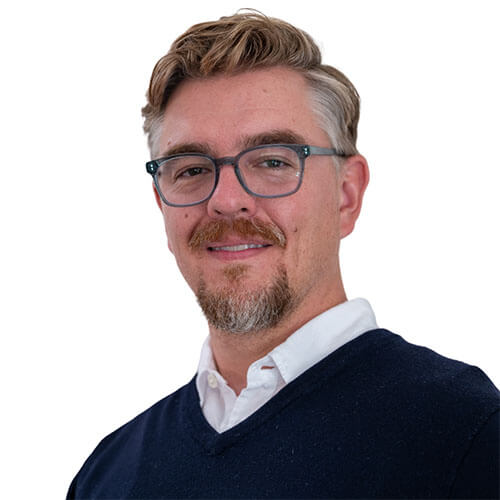
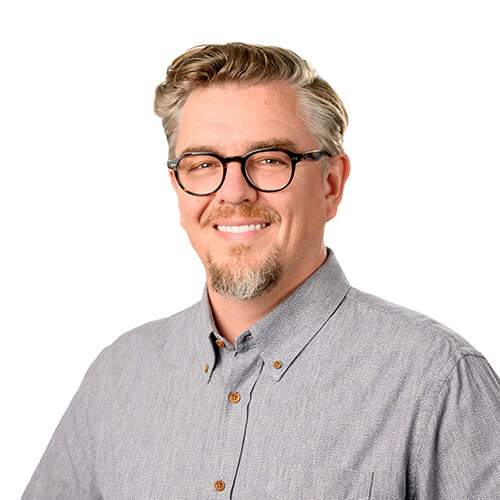
Leadership: update Borrman’s headshot [fix #14573]
Also add download link

diff --git a/bedrock/mozorg/templates/mozorg/about/leadership/includes/senior.html b/bedrock/mozorg/templates/mozorg/about/leadership/includes/senior.html
@@ -72,6 +72,8 @@
       <p class="title" itemprop="jobTitle">VP of Communications</p>
 
       <ul class="utility">
+        <li><a class="file" rel="external"
+          href="https://assets.mozilla.net/leadership/mozilla-brandon-borrman.zip">Download photos</a></li>
         <li><a class="link" href="{{ url('mozorg.about.leadership.index') }}#brandon-borrman">Link to this bio</a></li>
       </ul>
     </div>
